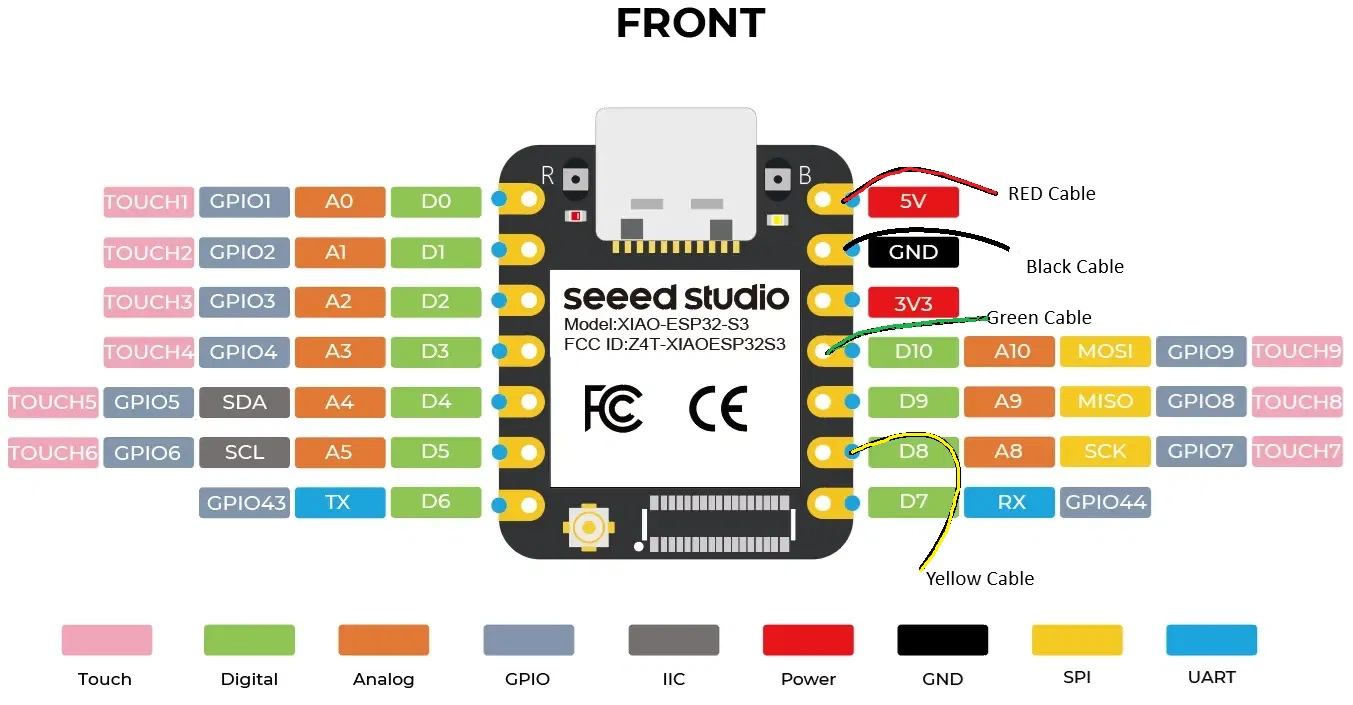
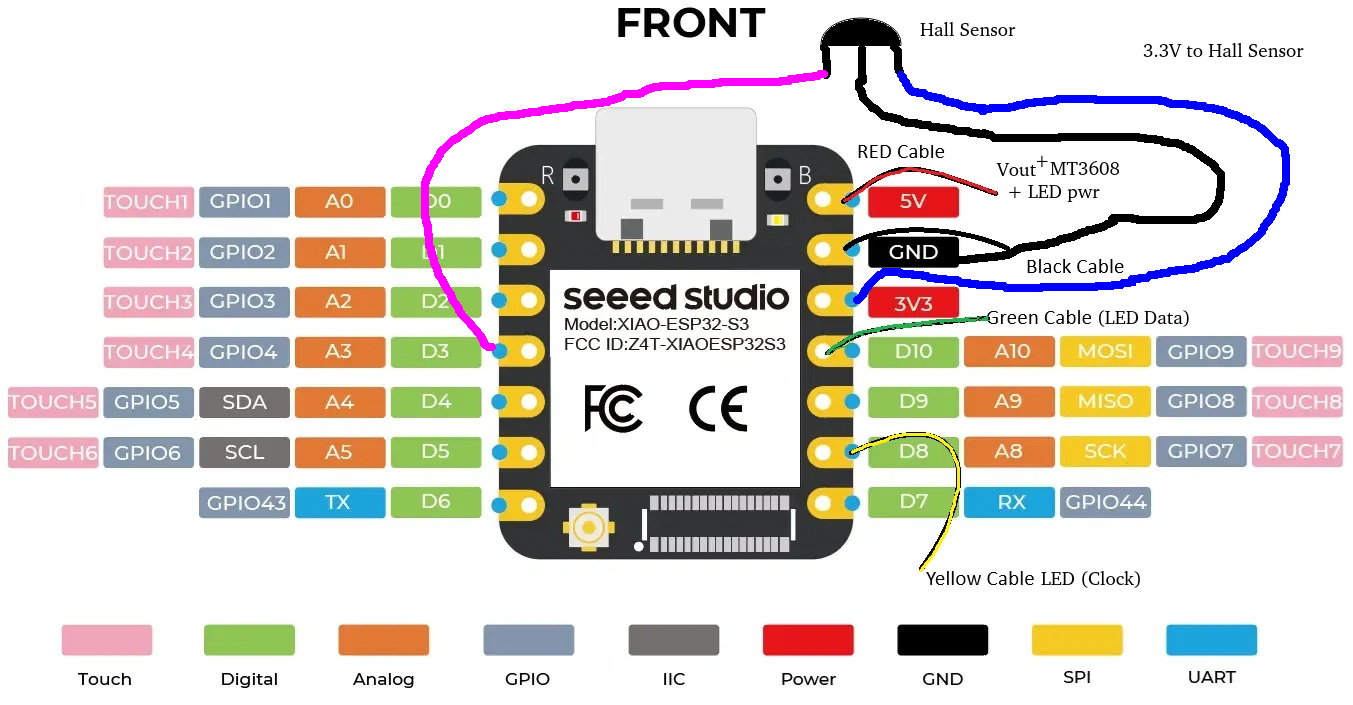
Updated the pinout image and added some sample code

diff --git a/Sample_Code/Back_wheel_battery_test/apa102.py b/Sample_Code/Back_wheel_battery_test/apa102.py
@@ -1,0 +1,64 @@
+# For 144 LED/meter — Front Wheel
+# 4 arms x 2 faces x 27 LEDs = 216 LEDs total
+# Daisy chain: XIAO → A1→B1→A2→B2→A3→B3→A4→B4
+# NUM_LEDS is defined in main.py and passed to this class — only change it there
+
+# *** LOADS ALL THE LIBRARIES NEEDED ***
+# Loads the micropython machine module
+# SPI is for the SPI bus, Pin is for the GPIO pins
+from machine import SPI, Pin
+
+
+# *** CREATING THE APA102 CLASS ***
+# spi_id=1 — which SPI bus to use. The XIAO ESP32-S3 has two SPI buses (0 and 1). We use bus 1.
+# sck_pin=7 — which GPIO pin is the clock (yellow wire / CI). GPIO7 = D8 on XIAO.
+# mosi_pin=9 — which GPIO pin is the data (green wire / DI). GPIO9 = D10 on XIAO.
+# num_leds — how many LEDs in the chain. No default — must be passed from main.py via NUM_LEDS.
+# brightness=8 — global brightness 0-31. 8 is plenty bright on dark playa and saves battery.
+class APA102:
+    def __init__(self, spi_id=1, sck_pin=7, mosi_pin=9,
+                 num_leds=None, brightness=8):
+        self.num_leds = num_leds  # Received from main.py — do not hardcode here
+        self.brightness = brightness & 0x1F
+        # 0x1F in binary is 00011111 — forces brightness to stay within 0-31
+        # even if someone accidentally passes a higher value. Safety clamp.
+
+        # *** SPI SETTINGS ***
+        # spi_id — which bus (1)
+        # baudrate=8_000_000 — data speed: 8 million bits per second. SK9822 can handle up to 40MHz — we're well within spec.
+        # polarity=0 — clock starts LOW. This is part of the SPI "mode" setting.
+        # phase=0 — data is read on the rising edge of the clock. Together with polarity=0, this is SPI Mode 0 which is what SK9822 requires.
+        # sck=Pin(sck_pin) — assigns GPIO7 as the clock pin
+        # mosi=Pin(mosi_pin) — assigns GPIO9 as the data pin. MOSI stands for Master Out Slave In — data flows FROM the XIAO TO the LEDs.
+        self.spi = SPI(spi_id, baudrate=8_000_000,
+                       polarity=0, phase=0,
+                       sck=Pin(sck_pin), mosi=Pin(mosi_pin))
+
+
+    # *** METHOD THAT SENDS COLOR DATA TO THE LEDS ***
+    def show(self, pixels):
+        data = bytearray(4)  # Creates 4 zero bytes [0x00, 0x00, 0x00, 0x00]. This is the start frame — signals "new data coming"
+        for r, g, b in pixels:  # Each pixel is a tuple of (r, g, b) values. The for loop unpacks the tuple into r, g, b variables.
+            data += bytes([0xE0 | self.brightness, b, g, r])
+            # The APA102 protocol requires a 4-byte frame for each LED:
+            # Byte 1: 0xE0 | brightness — "global brightness" byte. 0xE0 = 11100000 in binary.
+            #         The | (OR) combines it with brightness (0-31) to form 111xxxxx.
+            #         At full brightness (31 = 00011111) this becomes 11111111 = 0xFF.
+            # Byte 2: b — blue value (0-255)
+            # Byte 3: g — green value (0-255)
+            # Byte 4: r — red value (0-255)
+            # NOTE: order is B, G, R not R, G, B — SK9822 expects blue first!
+        data += bytes([0xFF] * ((self.num_leds // 16) + 1))
+        # End frame — required by APA102 protocol to signal end of data.
+        # Formula (num_leds // 16) + 1 calculates how many 0xFF bytes are needed.
+        # More LEDs in the chain = more end bytes needed to clock signal to the last LED.
+        # Example: 14 LEDs → (14 // 16) + 1 = 1 byte. 216 LEDs → (216 // 16) + 1 = 14 bytes.
+        self.spi.write(data)  # Blasts the entire byte array out over SPI in one shot.
+        # At 8MHz, 216 LEDs worth of data takes about 864 microseconds — still fast enough for POV.
+
+
+    # *** METHOD THAT TURNS OFF ALL THE LEDS ***
+    def off(self):
+        self.show([(0, 0, 0)] * self.num_leds)
+        # Black = (0, 0, 0) = no light = LEDs off.
+        # Reuses show() rather than duplicating code.

diff --git a/Sample_Code/main.py b/Sample_Code/main.py
@@ -1,0 +1,49 @@
+"""
+rear_test.py — Rear Wheel Battery Test
+=======================================
+Cycles all 40 LEDs through red → green → blue → white → repeat
+Color changes every 2 seconds.
+
+Upload this as main.py on the rear XIAO.
+Also upload apa102.py.
+"""
+
+import time
+from machine import SPI, Pin
+
+# ── Config ────────────────────────────────────
+NUM_LEDS = 28
+BRIGHTNESS = 8        # 0-31
+DELAY_MS   = 2000     # 2 seconds per color
+
+# ── SPI setup ─────────────────────────────────
+spi = SPI(1, baudrate=8_000_000, polarity=0, phase=0,
+          sck=Pin(7), mosi=Pin(9))
+
+# ── APA102/SK9822 driver ──────────────────────
+def show(r, g, b):
+    """Fill all LEDs with one color."""
+    brightness_byte = 0xE0 | BRIGHTNESS
+    data = bytearray(4)                          # start frame
+    for _ in range(NUM_LEDS):
+        data += bytes([brightness_byte, b, g, r])  # BGR order
+    data += bytes([0xFF] * ((NUM_LEDS // 2) + 1)) # end frame
+    spi.write(data)
+
+# ── Color sequence ────────────────────────────
+colors = [
+    ("RED",   255, 0,   0  ),
+    ("GREEN", 0,   255, 0  ),
+    ("BLUE",  0,   0,   255),
+    ("WHITE", 255, 255, 255),
+]
+
+print("Rear wheel battery test started — {} LEDs".format(NUM_LEDS))
+
+i = 0
+while True:
+    name, r, g, b = colors[i % len(colors)]
+    print("Color: {}".format(name))
+    show(r, g, b)
+    time.sleep_ms(DELAY_MS)
+    i += 1

diff --git a/Sample_Code/rear_test.py b/Sample_Code/rear_test.py
@@ -1,0 +1,49 @@
+"""
+rear_test.py — Rear Wheel Battery Test
+=======================================
+Cycles all 40 LEDs through red → green → blue → white → repeat
+Color changes every 2 seconds.
+
+Upload this as main.py on the rear XIAO.
+Also upload apa102.py.
+"""
+
+import time
+from machine import SPI, Pin
+
+# ── Config ────────────────────────────────────
+NUM_LEDS = 40
+BRIGHTNESS = 8        # 0-31
+DELAY_MS   = 2000     # 2 seconds per color
+
+# ── SPI setup ─────────────────────────────────
+spi = SPI(1, baudrate=8_000_000, polarity=0, phase=0,
+          sck=Pin(7), mosi=Pin(9))
+
+# ── APA102/SK9822 driver ──────────────────────
+def show(r, g, b):
+    """Fill all LEDs with one color."""
+    brightness_byte = 0xE0 | BRIGHTNESS
+    data = bytearray(4)                          # start frame
+    for _ in range(NUM_LEDS):
+        data += bytes([brightness_byte, b, g, r])  # BGR order
+    data += bytes([0xFF] * ((NUM_LEDS // 2) + 1)) # end frame
+    spi.write(data)
+
+# ── Color sequence ────────────────────────────
+colors = [
+    ("RED",   255, 0,   0  ),
+    ("GREEN", 0,   255, 0  ),
+    ("BLUE",  0,   0,   255),
+    ("WHITE", 255, 255, 255),
+]
+
+print("Rear wheel battery test started — {} LEDs".format(NUM_LEDS))
+
+i = 0
+while True:
+    name, r, g, b = colors[i % len(colors)]
+    print("Color: {}".format(name))
+    show(r, g, b)
+    time.sleep_ms(DELAY_MS)
+    i += 1

diff --git a/Sample_Code/Back_wheel_battery_test/main.py b/Sample_Code/Back_wheel_battery_test/main.py
@@ -1,0 +1,43 @@
+import time
+from apa102 import APA102
+
+NUM_LEDS = 40
+strip = APA102(num_leds=NUM_LEDS, brightness=8)
+
+def hsv_to_rgb(h):
+    h = h % 360
+    c = 255
+    x = int(c * (1 - abs((h / 60) % 2 - 1)))
+    if   h < 60:  return (c, x, 0)
+    elif h < 120: return (x, c, 0)
+    elif h < 180: return (0, c, x)
+    elif h < 240: return (0, x, c)
+    elif h < 300: return (x, 0, c)
+    else:         return (c, 0, x)
+
+def rainbow():
+    pixels = []
+    for i in range(NUM_LEDS):
+        pixels.append(hsv_to_rgb(i * 360 // NUM_LEDS))
+    return pixels
+
+while True:
+    print("RED")
+    strip.show([(255, 0, 0)] * NUM_LEDS)
+    time.sleep(2)
+
+    print("GREEN")
+    strip.show([(0, 255, 0)] * NUM_LEDS)
+    time.sleep(2)
+
+    print("BLUE")
+    strip.show([(0, 0, 255)] * NUM_LEDS)
+    time.sleep(2)
+
+    print("WHITE")
+    strip.show([(255, 255, 255)] * NUM_LEDS)
+    time.sleep(2)
+
+    print("RAINBOW")
+    strip.show(rainbow())
+    time.sleep(2)
